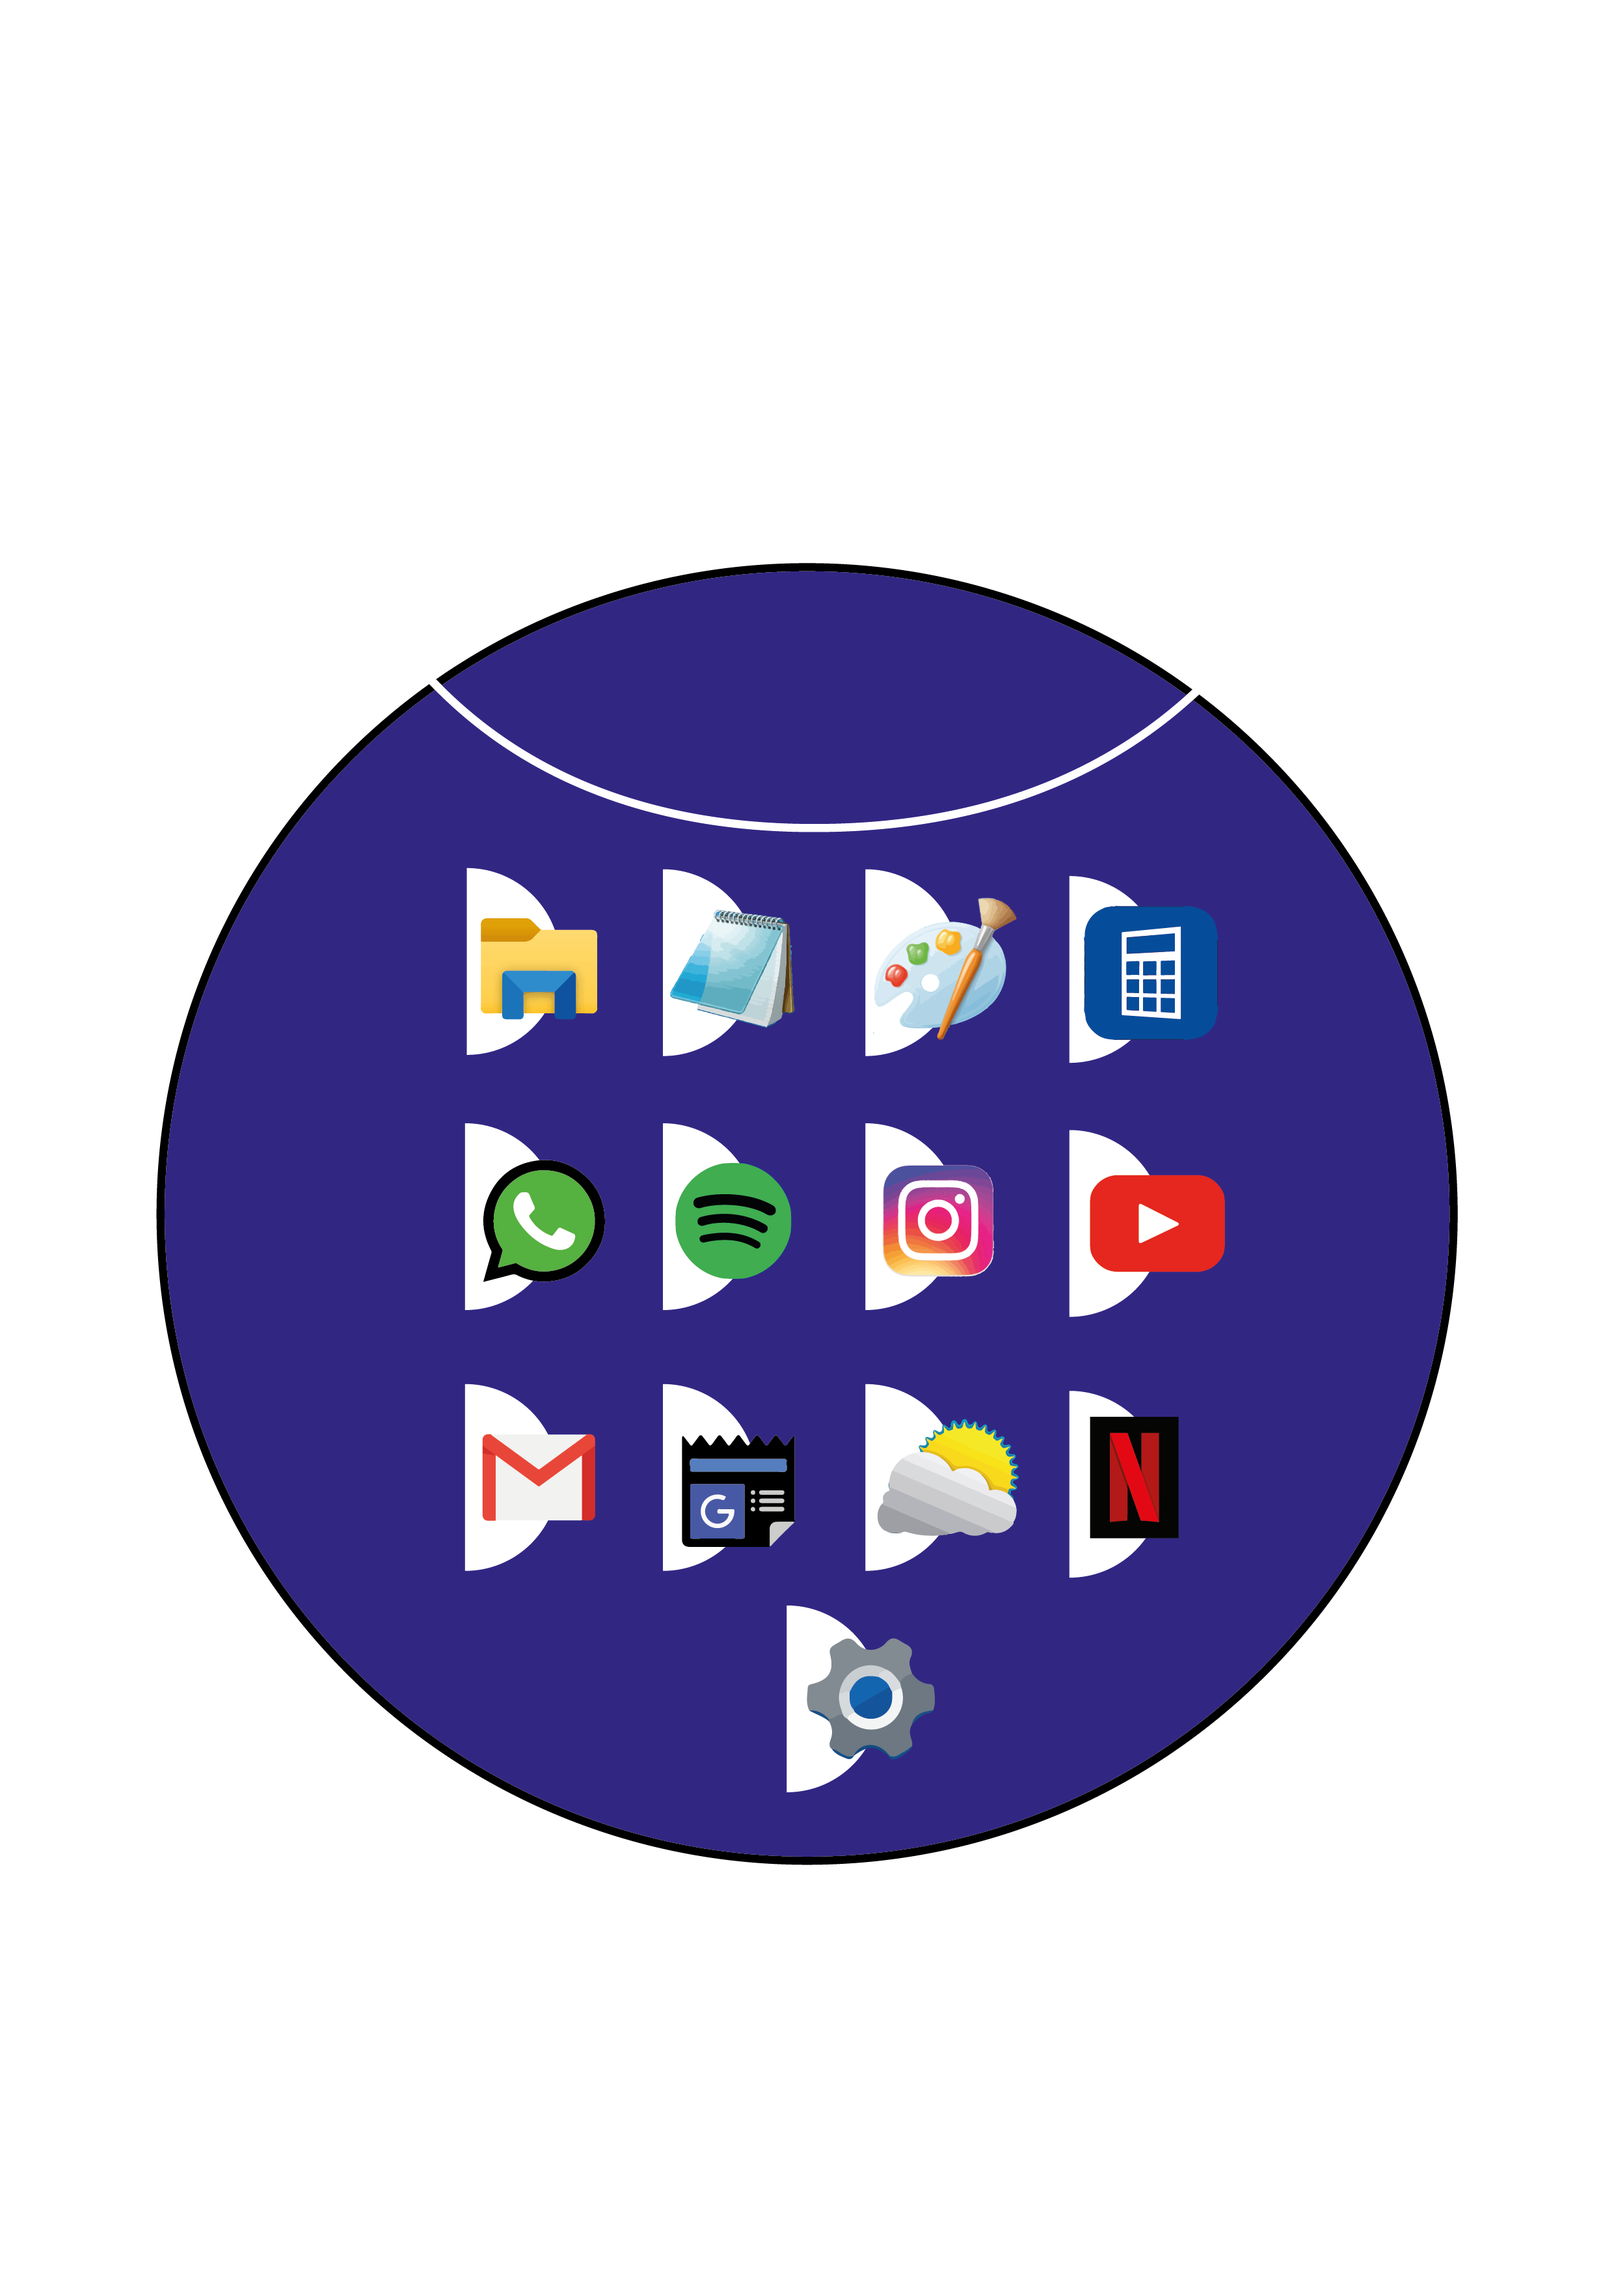
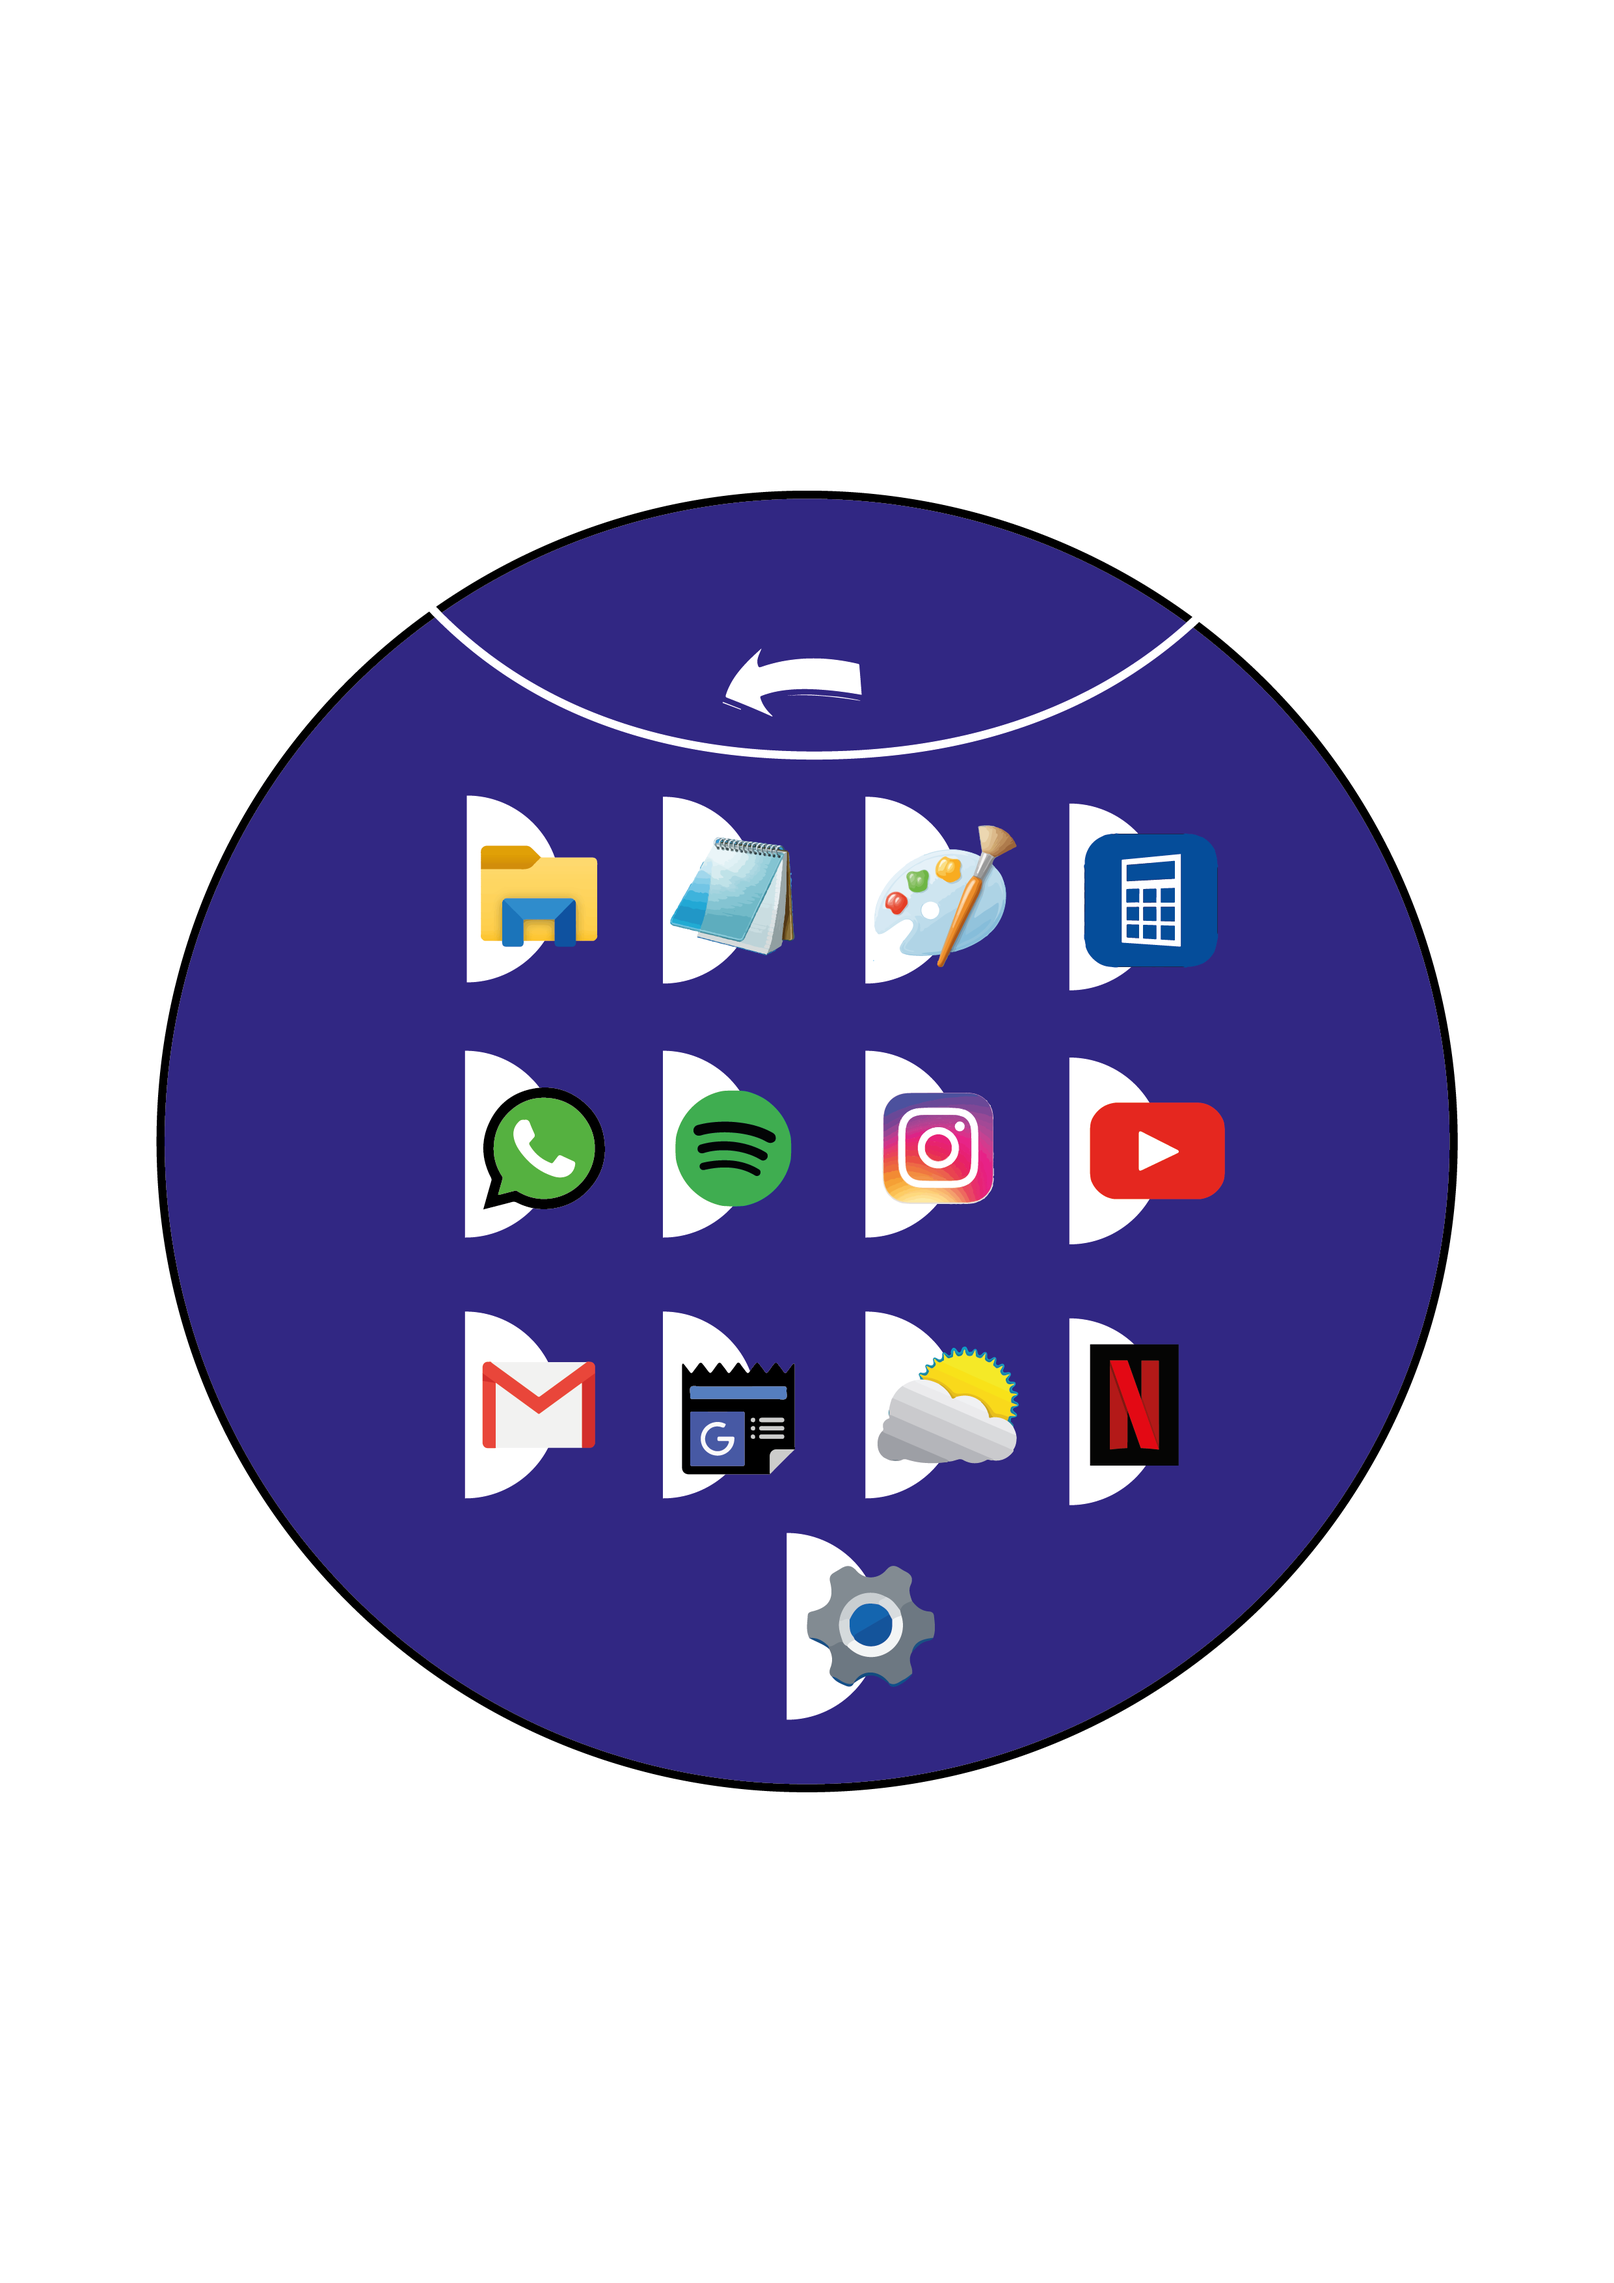
Update frontend
Solo cambios visuales

Changed region(s): [[0.0931, 0.2175, 0.9, 0.8389]]

diff --git a/frontend/src/styles.scss b/frontend/src/styles.scss
@@ -1,19 +1,16 @@
 /* You can add global styles to this file, and also import other style files */
 body{
-  background: #f8af11de;
+
+//background-image: url(assets/images/Backgrounds/background-9.png);
+background-image: url(assets/images/Backgrounds/background-6.png);
+background-size: 150%;
+background-repeat:no-repeat;
 
   //background: #115af8de;
+  //https://coolbackgrounds.io/
 }
 
-img-uno{
-background-image: url(assets/images/home.png);
-background-repeat: no-repeat;
-background-size: contain;
-background-position:100% ;
-}
-.img-dos{
-  background-image:url() ;
-}
+
 .abs-center {
   display: flex;
   align-items: center;

diff --git a/frontend/src/app/components/atajos/atajos.component.scss b/frontend/src/app/components/atajos/atajos.component.scss
@@ -11,8 +11,8 @@ display: flex;
 
 }
 .volver {
-  margin-left: 285px;
-  margin-top: 120px;
+  margin-left: 280px;
+  margin-top: 90px;
   color: white;
   font-family: Arial;
   font-weight: bold;

diff --git a/frontend/src/app/components/utilidades/utilidades.component.scss b/frontend/src/app/components/utilidades/utilidades.component.scss
@@ -12,7 +12,7 @@ display: flex;
 
 .volver {
   margin-left: 285px;
-  margin-top: 120px;
+  margin-top: 90px;
   color: white;
   font-family: Arial;
   font-weight: bold;
